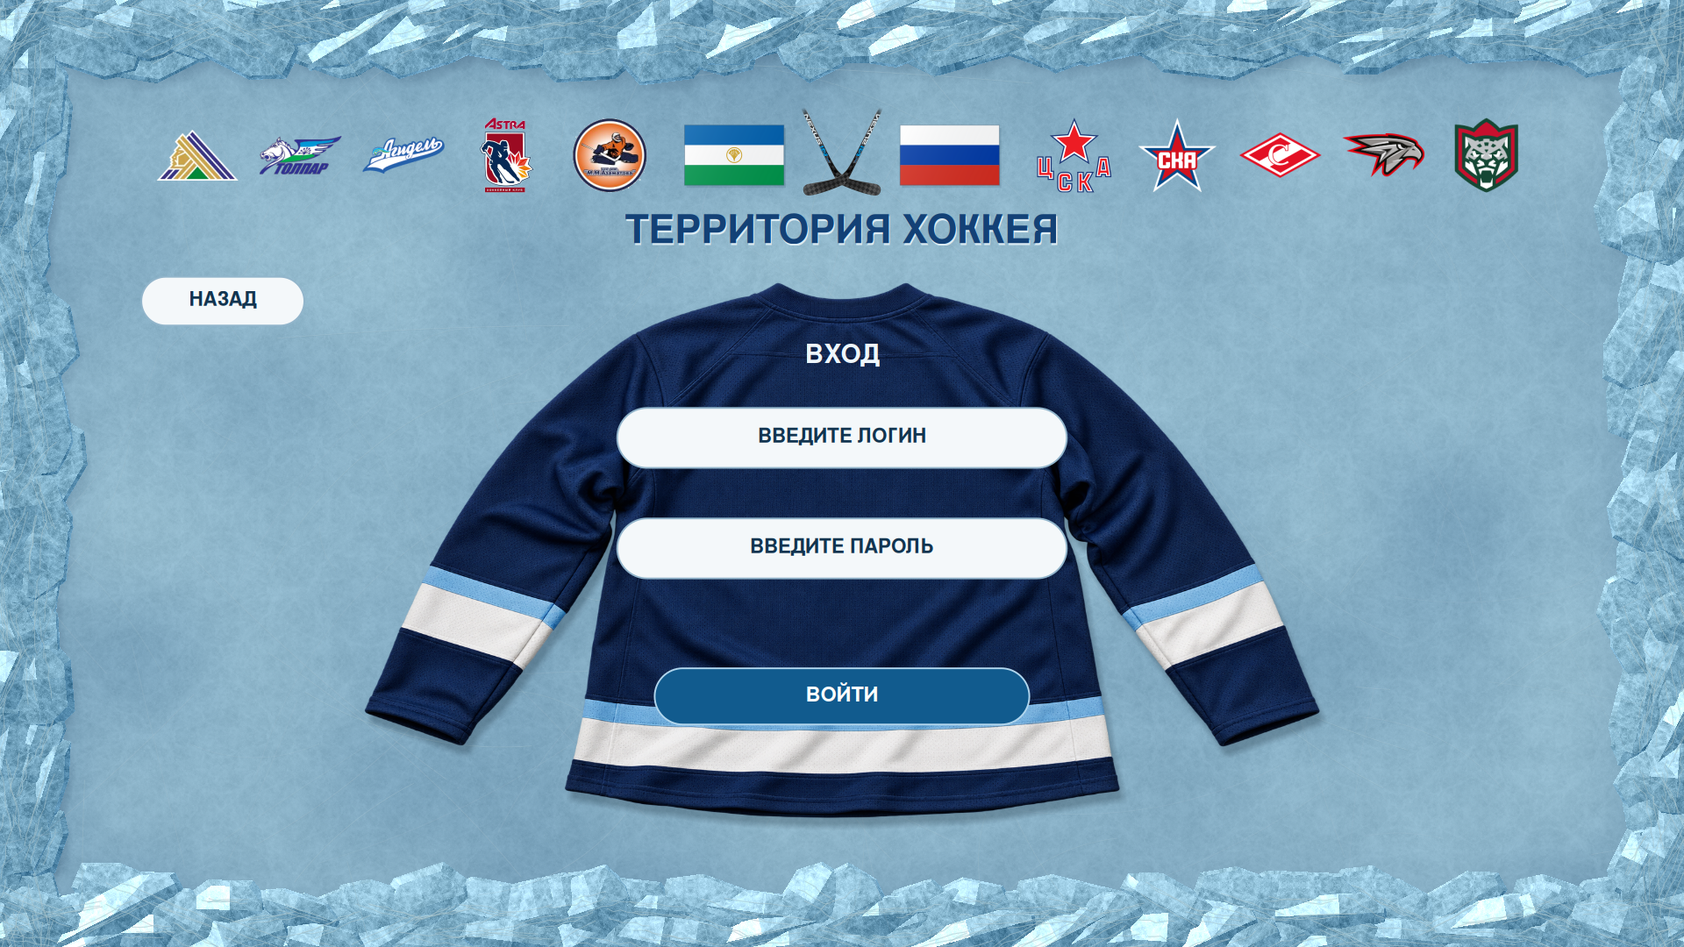
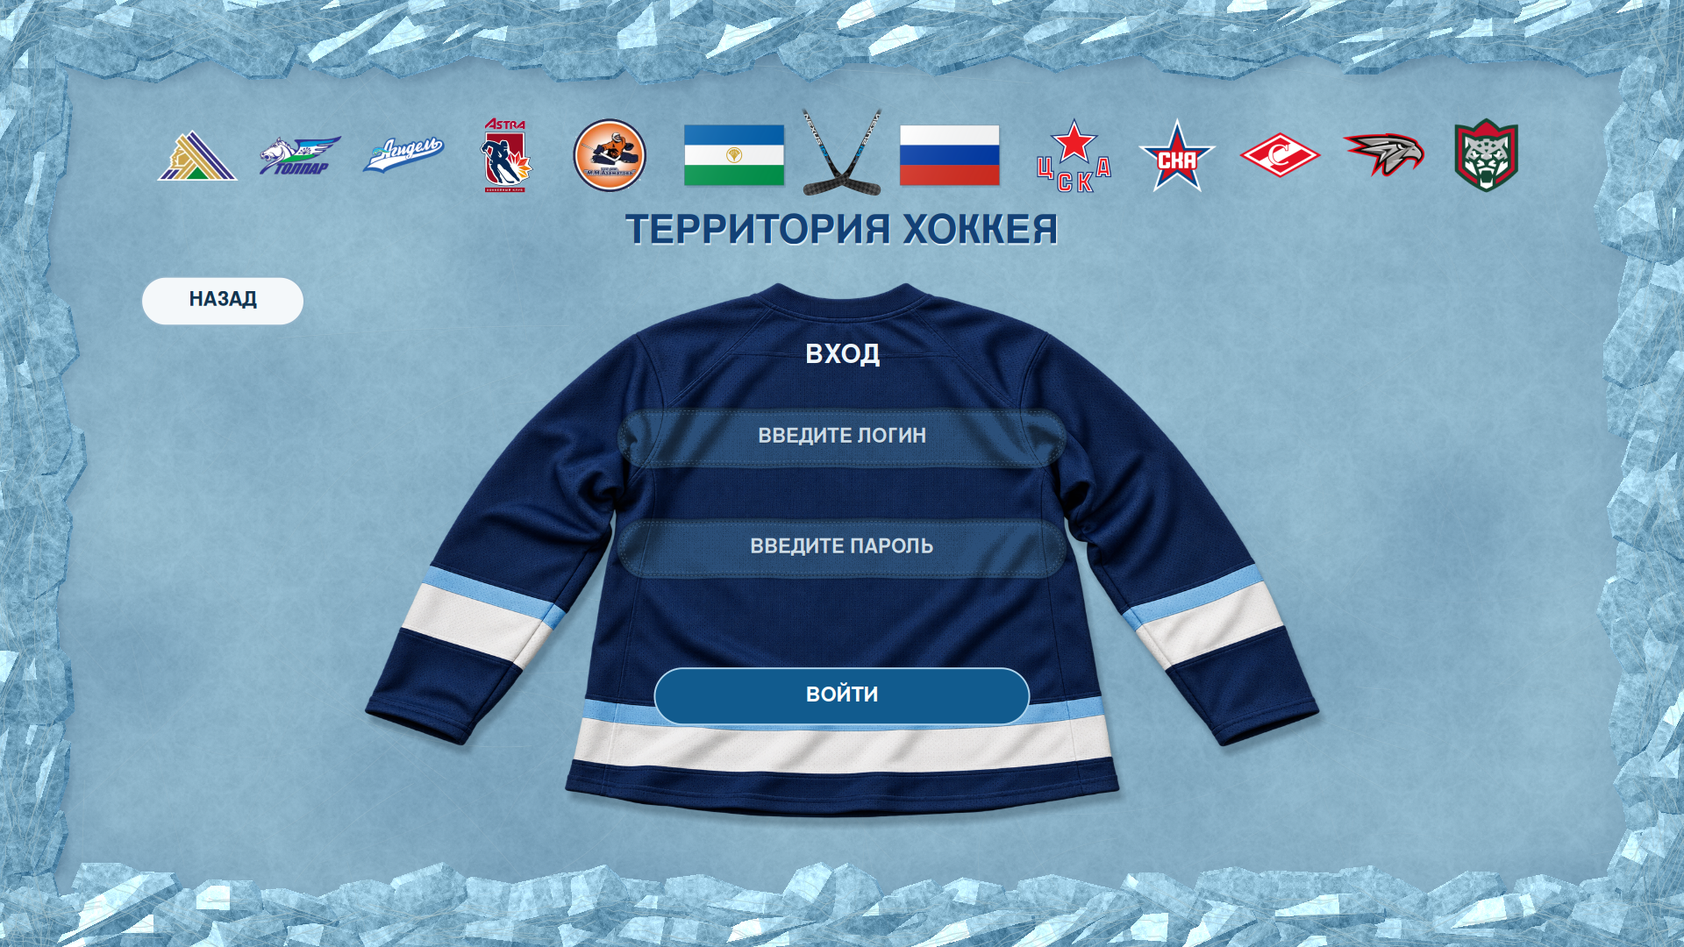
Integrate authentication fields into the jersey fabric
Render tonal cloth insets with the jersey lighting and folds, recessed edges and two stitch rows. Use the same background in the interactive controls and exports; give the native TextBox a scene-derived GDI pattern brush and transparent text background while retaining its editing and password behavior.

Refresh backgrounds when the scene or field geometry changes and release GDI objects. Update both form previews, the transition GIF, documentation and a native 32K detail crop.

Validation: Windows Release build, 0 warnings and errors; both forms at 960 and 1920; inset surfaces and stitches compared across bands at Full HD, 4K and a 32K crop (maximum channel difference 2/255); minimum sampled cue contrast 5.90:1. Interactive Windows UI was not run in this Linux environment.

Changed region(s): [[0.3438, 0.4278, 0.6562, 0.6111]]

diff --git a/COURSE_3/EP_TPaD_DB/App_C#/App/CapsuleInput.cs b/COURSE_3/EP_TPaD_DB/App_C#/App/CapsuleInput.cs
@@ -1,5 +1,7 @@
 using System.Drawing.Drawing2D;
 using System.ComponentModel;
+using System.Drawing.Imaging;
+using System.Runtime.InteropServices;
 
 namespace LP_PopovD_App
 {
@@ -10,6 +12,10 @@ namespace LP_PopovD_App
         private Font? inputFont;
         private Font? cueFont;
         private float textPixels;
+        private IntPtr fabricBrush;
+
+        [Browsable(false), DesignerSerializationVisibility(DesignerSerializationVisibility.Hidden)]
+        internal RectangleF SceneBounds { get; set; } = new(560, 330, 480, 64);
 
         internal event EventHandler? ValueChanged;
         [Browsable(false), DesignerSerializationVisibility(DesignerSerializationVisibility.Hidden)]
@@ -25,8 +31,8 @@ namespace LP_PopovD_App
             AccessibleName = name;
             input.BorderStyle = BorderStyle.None;
             input.TextAlign = HorizontalAlignment.Center;
-            input.BackColor = JerseyDrawing.InputFill;
-            input.ForeColor = JerseyDrawing.InputInk;
+            input.BackColor = JerseyFieldDrawing.FallbackFill;
+            input.ForeColor = JerseyFieldDrawing.Ink;
             input.UseSystemPasswordChar = password;
             input.MaxLength = maxLength;
             input.AccessibleName = name;
@@ -34,15 +40,15 @@ namespace LP_PopovD_App
             if (password) input.ImeMode = ImeMode.Disable;
             cue.Text = placeholder;
             cue.TextAlign = ContentAlignment.MiddleCenter;
-            cue.BackColor = JerseyDrawing.InputFill;
-            cue.ForeColor = Color.FromArgb(73, 100, 120);
+            cue.BackColor = Color.Transparent;
+            cue.ForeColor = JerseyFieldDrawing.CueInk;
             cue.TabStop = false;
             cue.Cursor = Cursors.IBeam;
             cue.AccessibleName = placeholder;
             cue.Click += (_, _) => input.Focus();
             input.Enter += (_, _) => { cue.Visible = false; Invalidate(); };
             input.Leave += (_, _) => { UpdateCue(); Invalidate(); };
-            input.TextChanged += (_, _) => { UpdateCue(); ValueChanged?.Invoke(this, EventArgs.Empty); };
+            input.TextChanged += (_, _) => { UpdateCue(); input.Invalidate(); ValueChanged?.Invoke(this, EventArgs.Empty); };
             Controls.Add(input);
             Controls.Add(cue);
             cue.BringToFront();
@@ -56,7 +62,7 @@ namespace LP_PopovD_App
             textPixels = pixels;
             Font? oldInput = inputFont, oldCue = cueFont;
             inputFont = new Font(RinkTypography.FamilyName, pixels, FontStyle.Regular, GraphicsUnit.Pixel);
-            cueFont = new Font(RinkTypography.FamilyName, pixels * 0.92f, FontStyle.Bold, GraphicsUnit.Pixel);
+            cueFont = new Font(RinkTypography.FamilyName, Math.Max(12, 21 * scale), FontStyle.Bold, GraphicsUnit.Pixel);
             input.Font = inputFont;
             cue.Font = cueFont;
             oldInput?.Dispose();
@@ -73,6 +79,7 @@ namespace LP_PopovD_App
         private void LayoutInput()
         {
             if (Width < 3 || Height < 3) return;
+            ClearFabricBrush();
             int inset = Math.Max(12, Height / 3);
             int textHeight = Math.Min(Height - 8, input.PreferredHeight);
             input.Bounds = new Rectangle(inset, (Height - textHeight) / 2,
@@ -81,28 +88,80 @@ namespace LP_PopovD_App
         }
 
         protected override void OnResize(EventArgs e) { base.OnResize(e); LayoutInput(); }
+        protected override void OnLocationChanged(EventArgs e) { ClearFabricBrush(); base.OnLocationChanged(e); }
+        protected override void OnParentChanged(EventArgs e) { ClearFabricBrush(); base.OnParentChanged(e); }
         protected override void OnMouseDown(MouseEventArgs e) { base.OnMouseDown(e); input.Focus(); }
         protected override void OnPaintBackground(PaintEventArgs e)
         {
             if (Parent is Form1 form) form.PaintScene(e.Graphics, Bounds);
-            else e.Graphics.Clear(Color.FromArgb(22, 53, 78));
+            else e.Graphics.Clear(JerseyFieldDrawing.FallbackFill);
         }
         protected override void OnPaint(PaintEventArgs e)
         {
             OnPaintBackground(e);
             base.OnPaint(e);
-            if (Width < 3 || Height < 3) return;
+            if (Width < 3 || Height < 3 || !ContainsFocus) return;
+            GraphicsState state = e.Graphics.Save();
             e.Graphics.SmoothingMode = SmoothingMode.AntiAlias;
-            using GraphicsPath shape = JerseyDrawing.Capsule(new RectangleF(1.5f, 1.5f, Width - 3, Height - 3));
-            using SolidBrush fill = new(JerseyDrawing.InputFill);
-            using Pen edge = new(ContainsFocus ? Color.FromArgb(49, 155, 213) : Color.FromArgb(147, 181, 203),
-                ContainsFocus ? 2.5f : 1.5f);
-            e.Graphics.FillPath(fill, shape);
-            e.Graphics.DrawPath(edge, shape);
+            e.Graphics.ScaleTransform(Width / SceneBounds.Width, Height / SceneBounds.Height);
+            e.Graphics.TranslateTransform(-SceneBounds.X, -SceneBounds.Y);
+            JerseyFieldDrawing.DrawStitches(e.Graphics, SceneBounds, focused: true);
+            e.Graphics.Restore(state);
         }
+
+        // Стандартный EDIT сохраняет каретку, выделение, Tab, IME и маскировку пароля.
+        // Его фон — точный фрагмент сцены, а обычные символы рисуются поверх ткани.
+        protected override void WndProc(ref Message m)
+        {
+            const int WmCtlColorEdit = 0x0133, WmCtlColorStatic = 0x0138;
+            if ((m.Msg == WmCtlColorEdit || m.Msg == WmCtlColorStatic) &&
+                input.IsHandleCreated && m.LParam == input.Handle)
+            {
+                EnsureFabricBrush();
+                if (fabricBrush != IntPtr.Zero)
+                {
+                    SetTextColor(m.WParam, ColorTranslator.ToWin32(input.ForeColor));
+                    SetBkMode(m.WParam, 1); // TRANSPARENT: без одноцветных прямоугольников под буквами.
+                    SetBrushOrgEx(m.WParam, 0, 0, IntPtr.Zero);
+                    m.Result = fabricBrush;
+                    return;
+                }
+            }
+            base.WndProc(ref m);
+        }
+
+        private void EnsureFabricBrush()
+        {
+            if (fabricBrush != IntPtr.Zero || Parent is not Form1 form || input.Width < 1 || input.Height < 1) return;
+            using Bitmap background = new(input.Width, input.Height, PixelFormat.Format32bppPArgb);
+            background.SetResolution(96, 96);
+            using (Graphics g = Graphics.FromImage(background))
+                form.PaintScene(g, new Rectangle(Left + input.Left, Top + input.Top, input.Width, input.Height));
+            IntPtr bitmap = background.GetHbitmap();
+            try { fabricBrush = CreatePatternBrush(bitmap); }
+            finally { DeleteObject(bitmap); }
+        }
+
+        private void ClearFabricBrush()
+        {
+            if (fabricBrush == IntPtr.Zero) return;
+            DeleteObject(fabricBrush); fabricBrush = IntPtr.Zero;
+            input.Invalidate();
+        }
+
+        internal void RefreshFabric() { ClearFabricBrush(); Invalidate(true); }
+
+        protected override void OnHandleDestroyed(EventArgs e) { ClearFabricBrush(); base.OnHandleDestroyed(e); }
+
+        [DllImport("gdi32.dll")] private static extern IntPtr CreatePatternBrush(IntPtr bitmap);
+        [DllImport("gdi32.dll")] private static extern bool DeleteObject(IntPtr value);
+        [DllImport("gdi32.dll")] private static extern int SetBkMode(IntPtr dc, int mode);
+        [DllImport("gdi32.dll")] private static extern int SetTextColor(IntPtr dc, int color);
+        [DllImport("gdi32.dll")] private static extern bool SetBrushOrgEx(IntPtr dc, int x, int y, IntPtr previous);
+
         protected override void Dispose(bool disposing)
         {
-            if (disposing) { inputFont?.Dispose(); cueFont?.Dispose(); }
+            if (disposing) { ClearFabricBrush(); inputFont?.Dispose(); cueFont?.Dispose(); }
             base.Dispose(disposing);
         }
     }

diff --git a/COURSE_3/EP_TPaD_DB/App_C#/App/JerseyFieldDrawing.cs b/COURSE_3/EP_TPaD_DB/App_C#/App/JerseyFieldDrawing.cs
@@ -1,0 +1,97 @@
+using System.Drawing.Drawing2D;
+
+namespace LP_PopovD_App
+{
+    internal static class JerseyFieldDrawing
+    {
+        internal static readonly Color Ink = Color.FromArgb(235, 241, 245);
+        internal static readonly Color CueInk = Color.FromArgb(204, 220, 231);
+        internal static readonly Color FallbackFill = Color.FromArgb(24, 46, 70);
+
+        private static float Ripple(float x, RectangleF bounds)
+            => .55f * MathF.Sin((x - bounds.X) * .047f + bounds.Y * .031f)
+                + .25f * MathF.Sin((x - bounds.X) * .113f + bounds.Y * .019f);
+
+        // Плоскость вставки использует свет и складки той же ткани, что и спинка.
+        internal static void Shade(float x, float y, float scale, RectangleF bounds, float alpha,
+            ref float red, ref float green, ref float blue)
+        {
+            if (x < bounds.Left - 4 || x > bounds.Right + 4 || y < bounds.Top - 5 || y > bounds.Bottom + 5) return;
+            float radius = bounds.Height / 2;
+            float py = y - (bounds.Top + radius) + Ripple(x, bounds);
+            float px = Math.Max(0, Math.Abs(x - (bounds.Left + bounds.Width / 2)) - (bounds.Width / 2 - radius));
+            float distance = MathF.Sqrt(px * px + py * py) - radius;
+            if (distance > 3) return;
+            float normalY = Math.Clamp(py / radius, -1, 1);
+            float coverage = Math.Clamp(.5f - distance * scale, 0, 1);
+            float clothAlpha = alpha / 255;
+            float light = Math.Clamp(.52f + (red * .2126f + green * .7152f + blue * .0722f) / Math.Max(1, clothAlpha) / 34,
+                .58f, 1.65f);
+            float upper = (1 - normalY) / 2;
+            float insetShadow = Math.Max(0, 1 + distance / 5) * (.11f + .28f * upper);
+            float lowerLip = Math.Max(0, 1 - Math.Abs(distance + 1.4f) / 1.1f) * Math.Max(0, normalY) * .12f;
+            float lighting = light * (1 - insetShadow) + lowerLip;
+            red += (26 * lighting * clothAlpha - red) * coverage;
+            green += (48 * lighting * clothAlpha - green) * coverage;
+            blue += (73 * lighting * clothAlpha - blue) * coverage;
+            if (distance > 0)
+            {
+                float contact = 1 - (1 - distance / 3) * .18f * (1 - coverage);
+                red *= contact; green *= contact; blue *= contact;
+            }
+        }
+
+        private static GraphicsPath Seam(RectangleF bounds, float inset)
+        {
+            bounds.Inflate(-inset, -inset);
+            float radius = bounds.Height / 2, left = bounds.Left + radius, right = bounds.Right - radius;
+            float centerY = bounds.Top + radius;
+            List<PointF> points = new();
+            void Add(float x, float y) => points.Add(new PointF(x, y - Ripple(x, bounds)));
+            for (int i = 0; i <= 24; i++)
+            {
+                float angle = MathF.PI / 2 + MathF.PI * i / 24;
+                Add(left + radius * MathF.Cos(angle), centerY + radius * MathF.Sin(angle));
+            }
+            for (float x = left + 8; x < right; x += 8) Add(x, bounds.Top);
+            for (int i = 0; i <= 24; i++)
+            {
+                float angle = -MathF.PI / 2 + MathF.PI * i / 24;
+                Add(right + radius * MathF.Cos(angle), centerY + radius * MathF.Sin(angle));
+            }
+            for (float x = right - 8; x > left; x -= 8) Add(x, bounds.Bottom);
+            GraphicsPath path = new();
+            path.AddLines(points.ToArray()); path.CloseFigure();
+            return path;
+        }
+
+        internal static void DrawStitches(Graphics g, RectangleF bounds, bool focused = false)
+        {
+            using GraphicsPath outer = Seam(bounds, 3.8f);
+            using Pen channel = new(Color.FromArgb(110, 3, 12, 24), 1.7f);
+            g.DrawPath(channel, outer);
+            using Pen thread = new(focused ? Color.FromArgb(204, 143, 199, 225) : Color.FromArgb(150, 91, 121, 149), .85f)
+            {
+                DashPattern = new[] { 2.3f, 2.4f }, DashOffset = bounds.Y % 5, StartCap = LineCap.Round, EndCap = LineCap.Round
+            };
+            g.DrawPath(thread, outer);
+            using GraphicsPath inner = Seam(bounds, 7.2f);
+            using Pen second = new(Color.FromArgb(focused ? 136 : 86, 125, 155, 180), .65f)
+            {
+                DashPattern = new[] { 2f, 3f }, DashOffset = 1.6f
+            };
+            g.DrawPath(second, inner);
+        }
+
+        internal static void DrawCue(Graphics g, RectangleF bounds, string text)
+        {
+            using Font font = new(RinkTypography.FamilyName, 21, FontStyle.Bold, GraphicsUnit.Pixel);
+            using StringFormat centered = new() { Alignment = StringAlignment.Center, LineAlignment = StringAlignment.Center };
+            using SolidBrush shadow = new(Color.FromArgb(115, 3, 10, 22));
+            using SolidBrush ink = new(CueInk);
+            RectangleF offset = bounds; offset.Offset(0, .7f);
+            g.DrawString(text, font, shadow, offset, centered);
+            g.DrawString(text, font, ink, bounds, centered);
+        }
+    }
+}

diff --git a/COURSE_3/EP_TPaD_DB/App_C#/App/JerseyDrawing.cs b/COURSE_3/EP_TPaD_DB/App_C#/App/JerseyDrawing.cs
@@ -34,7 +34,11 @@ namespace LP_PopovD_App
                     DrawCapsule(g, BackBounds, "НАЗАД", false);
                 return;
             }
-            JerseyFabricDrawing.Draw(g, viewport);
+            RectangleF[] inputs = InputBounds(registration);
+            JerseyFabricDrawing.Draw(g, viewport, inputs);
+            foreach (RectangleF field in inputs)
+                if (!viewport.HasValue || viewport.Value.IntersectsWith(field))
+                    JerseyFieldDrawing.DrawStitches(g, field);
 
             using Font title = new(RinkTypography.FamilyName, 28, FontStyle.Bold, GraphicsUnit.Pixel);
             using SolidBrush white = new(Color.FromArgb(239, 247, 252));
@@ -50,9 +54,8 @@ namespace LP_PopovD_App
             string[] prompts = registration
                 ? new[] { "ВВЕДИТЕ ЛОГИН", "ВВЕДИТЕ ПАРОЛЬ", "ВВЕДИТЕ ЭЛЕКТРОННУЮ ПОЧТУ" }
                 : new[] { "ВВЕДИТЕ ЛОГИН", "ВВЕДИТЕ ПАРОЛЬ" };
-            RectangleF[] inputs = InputBounds(registration);
             for (int i = 0; i < inputs.Length; i++)
-                DrawCapsule(g, inputs[i], prompts[i], false);
+                JerseyFieldDrawing.DrawCue(g, inputs[i], prompts[i]);
             DrawCapsule(g, SubmitBounds, registration ? "ЗАРЕГИСТРИРОВАТЬСЯ" : "ВОЙТИ", true);
             DrawCapsule(g, BackBounds, "НАЗАД", false);
         }

diff --git a/COURSE_3/EP_TPaD_DB/App_C#/App/JerseyFabricDrawing.cs b/COURSE_3/EP_TPaD_DB/App_C#/App/JerseyFabricDrawing.cs
@@ -106,7 +106,7 @@ namespace LP_PopovD_App
             }
         }
 
-        internal static void Draw(Graphics g, RectangleF? viewport)
+        internal static void Draw(Graphics g, RectangleF? viewport, RectangleF[]? fields = null)
         {
             material ??= new Fabric();
             Fabric fabric = material;
@@ -138,6 +138,9 @@ namespace LP_PopovD_App
                             float wx = (left + x + .5f - dx) / sx;
                             float u = fabric.Crop.Left + (wx - BodyBounds.X) * sourceScaleX - .5f;
                             fabric.Read(u, v, out float a, out float r, out float green, out float b);
+                            if (a > 16 && fields != null)
+                                foreach (RectangleF field in fields)
+                                    JerseyFieldDrawing.Shade(wx, wy, Math.Min(sx, sy), field, a, ref r, ref green, ref b);
                             if (a > 16 && detail > 0)
                             {
                                 // Тонкое плетение строится в целевых пикселях, а не увеличивается из PNG.

diff --git a/COURSE_3/EP_TPaD_DB/App_C#/App/Form1.cs b/COURSE_3/EP_TPaD_DB/App_C#/App/Form1.cs
@@ -111,7 +111,12 @@ namespace LP_PopovD_App
             graphics.Restore(state);
         }
 
-        private void ClearSceneCache() { sceneCache?.Dispose(); sceneCache = null; }
+        private void ClearSceneCache()
+        {
+            sceneCache?.Dispose(); sceneCache = null;
+            foreach (Control control in Controls)
+                if (control is CapsuleInput field) field.RefreshFabric();
+        }
 
         private void DisposeArtwork()
         {
@@ -151,7 +156,11 @@ namespace LP_PopovD_App
             for (int i = 0; i < inputs.Length; i++)
             {
                 inputs[i].SetScale(scale);
-                if (i < fields.Length) inputs[i].Bounds = ToPixels(fields[i]);
+                if (i < fields.Length)
+                {
+                    inputs[i].SceneBounds = fields[i];
+                    inputs[i].Bounds = ToPixels(fields[i]);
+                }
             }
             submitButton.Text = registration ? "ЗАРЕГИСТРИРОВАТЬСЯ" : "ВОЙТИ";
             submitButton.AccessibleName = registration ? "Зарегистрироваться" : "Войти";

diff --git a/COURSE_3/EP_TPaD_DB/App_C#/README.md b/COURSE_3/EP_TPaD_DB/App_C#/README.md
@@ -42,6 +42,15 @@
 Майка использует фотореалистическую основу: тяжёлая сетчатая ткань, естественные складки
 на рукавах и спинке, усиленные плечевые швы, вязаный воротник, объёмные манжеты и подгибка.
 Мягкая тень отделяет ткань от льда. Все поля целиком помещаются на широкой спинке.
+Поля оформлены как вшитые овальные вставки в тон майки. Их материал сохраняет освещение,
+сетчатую фактуру и складки спинки; по краям проходят две строчки, а внутренняя тень
+придаёт краю небольшую глубину. Светлые подсказки и введённый текст располагаются прямо на ткани.
+При фокусе строчка становится светлее. Нативный TextBox получает фон из того же фрагмента сцены
+через кисть Windows GDI; сплошная прямоугольная заливка под текстом не используется.
+Фон кисти обновляется при перемещении, изменении размеров поля и обновлении сцены;
+GDI-объекты освобождаются.
+[Jersey_Fields_Detail_32K.png](Jersey_Fields_Detail_32K.png) показывает край тканевой вставки
+и строчки в масштабе 1:1: это фрагмент 1600 × 1200 из отрисовки 30720 × 17280.
 В крупном экспорте мелкое плетение дополнительно рассчитывается в целевых пикселях;
 отрисовывается только видимая полоса, без выделения памяти под всю майку в 32K.
 [Jersey_Detail_32K.png](Jersey_Detail_32K.png) — фрагмент 1600 × 1200 из кадра
@@ -189,6 +198,10 @@ JPEG поддерживается до 15360 пикселей по ширине;
 - Проверены обязательность полей и формат электронной почты.
 - Для новой майки проверено попадание полей на непрозрачную ткань и совпадение отрисовки
   одним фрагментом и полосами в Full HD, 4K и на фрагменте 32K.
+- Для вшитых полей проверены общий материал в UI и экспорте, читаемость подсказок,
+  строчки и стыки полос с включёнными вставками.
+- Минимальный измеренный контраст подсказок на ткани — 5,90:1. При сравнении цельной отрисовки
+  и полос разница сглаживания отдельных пикселей строчки не превышает 2 из 255.
 - Отрисованы 25 кадров пролёта камеры со снегом, собран GIF-пример.
 
 Само окно WinForms в Windows в этой среде не запускалось.
